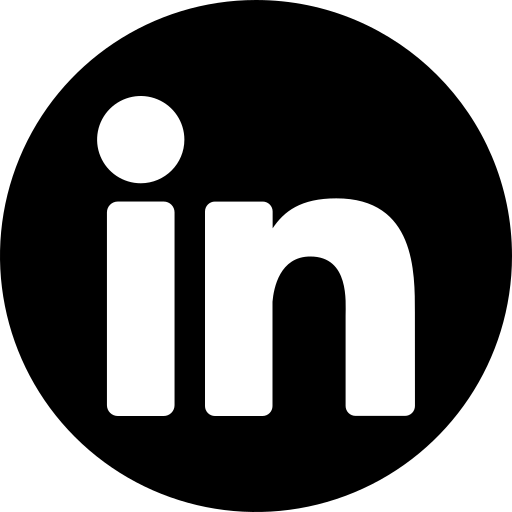
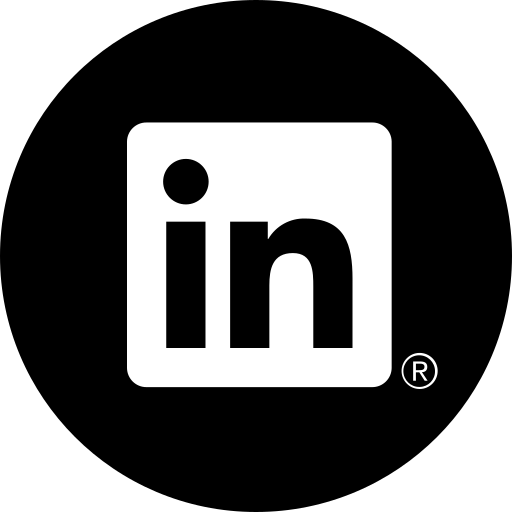
second Commit

Changed region(s): [[0.1875, 0.1875, 0.875, 0.8125]]

diff --git a/About.html b/About.html
@@ -1,0 +1,56 @@
+<!DOCTYPE html>
+<html lang="en">
+    <head>
+        <meta charset="UTF-8">
+        <meta http-equiv="X-UA-Compatible" content="IE=edge">
+        <meta name="viewport" content="width=device-width, initial-scale=1.0">
+        <title>Portfolio</title>
+        <link rel="stylesheet" href="Projects.css">
+        <link rel="stylesheet" href="Home.css">
+        
+    </head>
+    <header class="header">
+        <a href="#" class="logo">Saranga Pathirana</a>
+        
+        <nav class="navbar">
+            <a href="Home.html" >Home</a>
+            <a href="About.html" class="active">About</a> 
+            <a href="#">Projects</a>
+            <a href="#">Conatct</a>
+        </nav>
+    </header>   
+    <body>
+        <div class="img-flex-container">
+            <div class="lan-img">
+                <img class="lan" src="html.png" alt="html" />
+            </div>
+            <div class="lan-img">
+                <img class="lan" src="javascript.png" alt="html" />
+            </div>
+            <div class="lan-img">
+                <img class="lan" src="css.png" alt="html" />
+            </div>
+        </div>
+<div class="About">
+    <p class="about-me">
+        <br>
+        Hello, I'm Saranga Pathirana, a 23-year-old passionate front-end developer with a knack for turning creative ideas 
+        into engaging digital experiences. My journey into the world of web development began with a 
+        curiosity to blend design and functionality seamlessly.<br>
+        <Br>
+        I thrive on the challenge of bringing concepts to life through clean, 
+        efficient code and eye-catching interfaces. Over the years, I've honed my skills in HTML, CSS, JavaScript, and Reactjs 
+        to create user-friendly websites that not only meet but exceed expectations. Detail-oriented and committed to delivering 
+        high-quality work, I continually stay abreast of the latest industry trends and technologies to ensure my projects are both 
+        cutting-edge and user-focused.<br>
+        <br>
+        In addition to my technical skills, I value collaboration and effective communication. I enjoy working in dynamic 
+        teams where creativity flows, and ideas are shared freely. Problem-solving is not just a task for me; it's an exciting puzzle 
+        that I eagerly embrace in my quest to enhance user experiences and push the boundaries of web development.<br><br>
+        Beyond coding, I find inspiration in exploring new design trends, attending tech meetups, and contributing to the 
+        ever-evolving landscape of front-end development. My goal is not just to write code but to craft digital solutions 
+        that leave a lasting impression. With each project, I aim to bring innovation, usability, and a touch of my own creative flair to the digital world.</p>
+</div>
+
+</body>
+</html>

diff --git a/Home.html b/Home.html
@@ -6,16 +6,17 @@
         <meta name="viewport" content="width=device-width, initial-scale=1.0">
         <title>Portfolio</title>
         <link rel="stylesheet" href="Home.css">
+        <link rel="stylesheet" href="Projects.css">
     </head>
     <body>
         <header class="header">
             <a href="#" class="logo">Saranga Pathirana</a>
             
             <nav class="navbar">
-                <a href="#" class="active">Home</a>
-                <a href="#">About</a> 
+                <a href="Home.html" class="active">Home</a>
+                <a href="About.html">About</a> 
                 <a href="#">Projects</a>
-                <a href="#">Resume</a>
+                <a href="#">Conatct</a>
             </nav>
         </header>
         <div class="img-container">
@@ -28,10 +29,32 @@
                 <h3 class="subtitle">Front-End Developer</h3>
             </div>
         </section>
-        <div class="Social-Icons-flex-container">
-        <a href="github.com/Saranga-glitch">
-            <img class="github" src="Github.png" alt="github" />
-        </a>
+        <div class="flex-container">
+            <div class="Social-Icons-1">
+                <a href="https://github.com/Saranga-glitch" target="_blank">
+                <img class="social" src="github.png" alt="github" />
+                </a>
+            </div>
+            <div class="Social-Icons-2">
+                <a href="https://www.linkedin.com/in/saranga-pathirana-90593b1a0" target="_blank">
+                <img class="social" src="Linkedin.png" alt="github" />
+                </a>
+            </div>
+            <div class="Social-Icons-3">
+                <a href="https://www.facebook.com/saranga.pathirana.90" target="_blank">
+                <img class="social" src="Facebook.png" alt="github" />
+                </a>
+            </div>
+            <div class="Social-Icons-3">
+                <a href="https://twitter.com/Saranga619" target="_blank">
+                <img class="social" src="twitter.png" alt="github" />
+                </a>
+            </div>
+            <div class="Social-Icons-3">
+                <a href="https://www.instagram.com/sarangapathirana20" target="_blank" >
+                <img class="social" src="Instagram.png" alt="github" />
+                </a>
+            </div>
         </div>
     </body>
 </html>

diff --git a/Home.css b/Home.css
@@ -4,7 +4,7 @@
     box-sizing: border-box;
 }
  body {
-    background: #081b29;
+    background: #ffffff;
  }
  .header {
     position: fixed;
@@ -12,7 +12,7 @@
     left: 0;
     width: 100%;
     padding: 20px 10%;
-    background: transparent;
+    background: #ffffff;
     display: flex;
     justify-content: space-between;
     align-items: center;
@@ -20,14 +20,14 @@
 
  .logo {
    font-size: 25px;
-   color: #ededed;
+   color: #000000;
    text-decoration: none;
    font-weight: 600;
  }
 
  .navbar a {
    font-size: 18px;
-   color: #ededed;
+   color: #000000;
    text-decoration: none;
    font-weight: 500;
    margin-left: 35px;
@@ -49,16 +49,19 @@
 .home {
   margin-top: 20px;
   font-size: 30px;
-  color: #ededed;
+  color: #000000;
   text-align: center;
 }
 .subtitle{
   font-size: 30px;
 }
-.github{
-  display: block;
+.flex-container{
+  display: flex;
   margin-top: 20px;
-  margin-left: auto;
-  margin-right: auto;
+  justify-content: center;
+  gap: 10px;
+  
+}
+.social{
   height: 50px;
 }

diff --git a/Projects.css b/Projects.css
@@ -1,0 +1,21 @@
+.About{
+    margin-top: 100px;
+    margin-left: 80px;
+    margin-right: 350px;
+
+}
+.about-me{
+    font-size: 25px;
+    font-family:Arial, Helvetica, sans-serif
+}
+.lan{
+    height: 150px;
+}
+.img-flex-container{
+    display: flex;
+    flex-direction: column;
+    gap: 40px;
+    float: right;
+    margin-top: 10px;
+    margin-right: 100px;
+}
